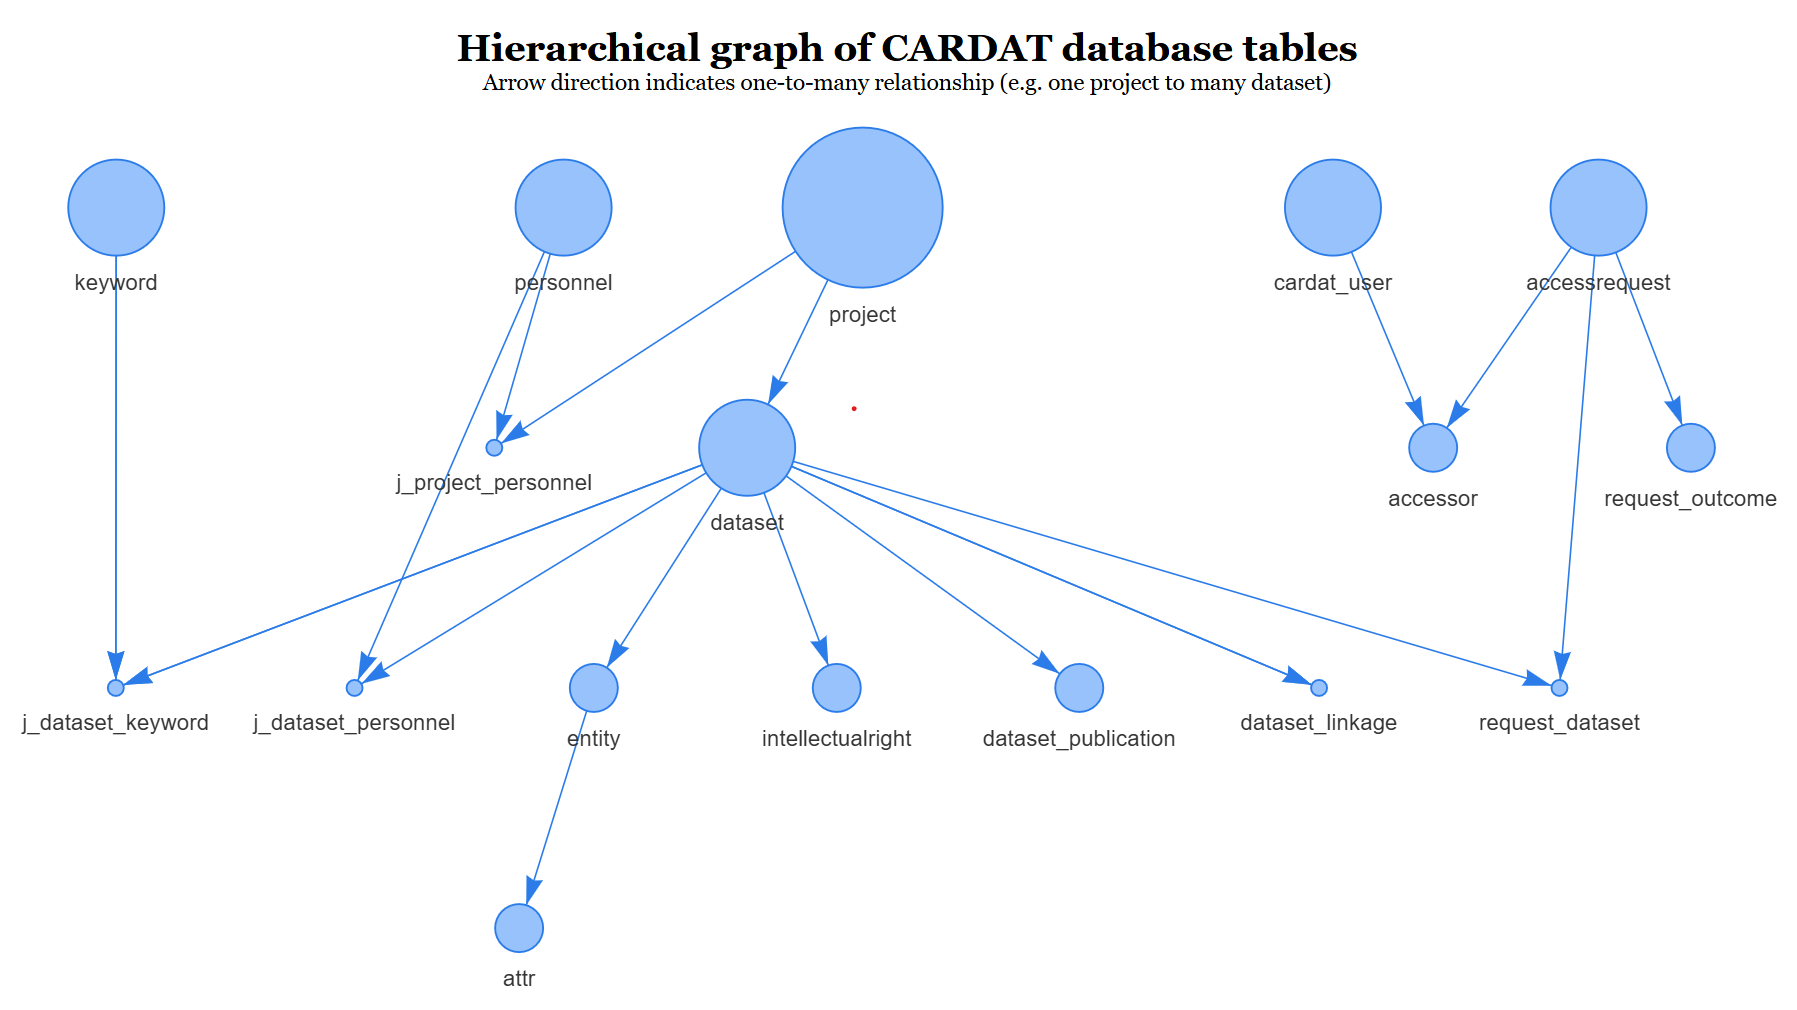
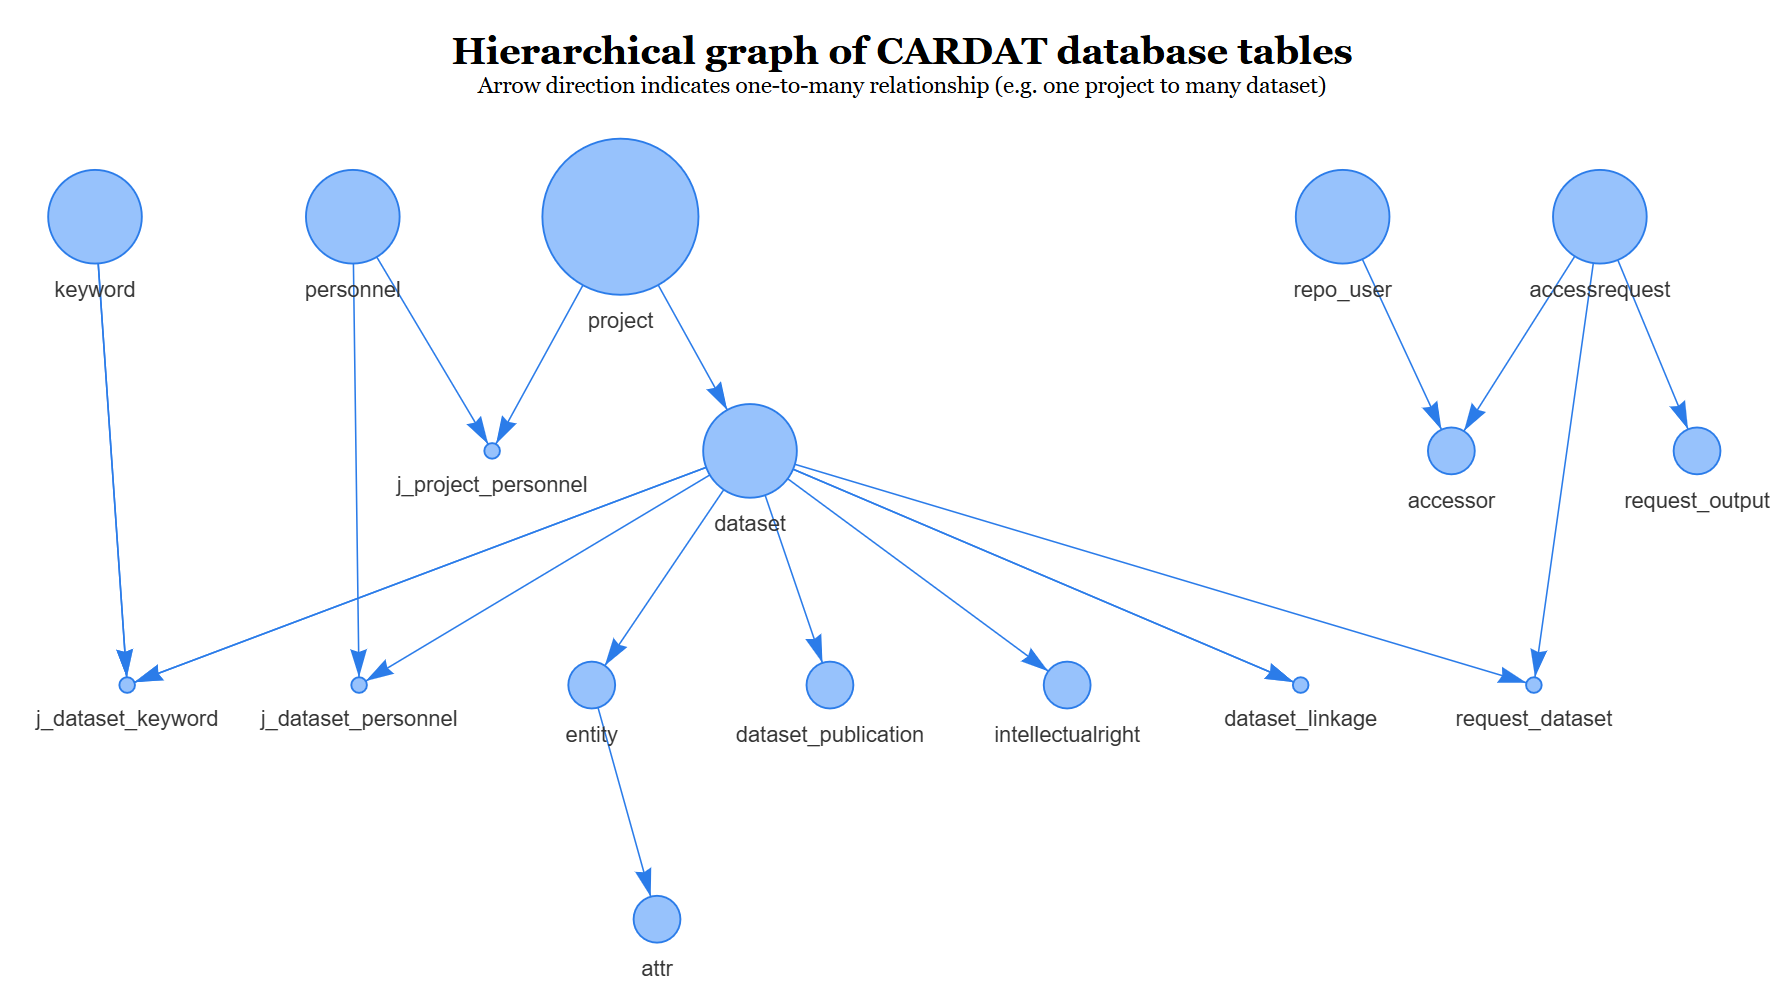
Heavily edit guide

diff --git a/views/index/guide.html b/views/index/guide.html
@@ -1,41 +1,72 @@
 {{extend 'layout.html'}}
 
   {{if auth.is_logged_in():}}
-  <h4>{{=T("Structure")}}</h4>,
-  {{=IMG(_src=URL("static/images", "CARDAT_tbl_relation.png"), _alt = "CARDAT table relationships")}}
-
-  <h4>{{=T("Guide to Usage")}}</h4>
-  <p>The data inventory is primarily divided into two sections - one for managing data assets and one for managing access and usage of data. It is suitable for managing a directory of data sources as well as for the inventory/management of a data repository.</p>
-  <p>The central structure of the inventory of data assets is inspired by the 
-  {{=A('Ecological Metadata Language', _href='https://eml.ecoinformatics.org/')}} and uses a project-dataset-entity tree structure. Datasets (<em>dataset</em>) are the key focus - each dataset record has an abstract and description of methods and study extent, and importantly has a record of licencing attached (<em>intellectualright</em>) and personnel (<em>personnel</em>) involved, particularly the data owner or creator (<em>j_dataset_personnel</em>). Methodology which has been published (e.g. described in a journal paper) can also be attached to a dataset (<em>dataset_publication</em>). Datasets can contain one or more entities (<em>entity</em>) which are typically files or code repositories. In turn, one or more datasets can be grouped into an overarching project (<em>project</em>), typically defined by the intended outcome and funding source.</p>
-  <p>Additional helper information for dataset can be added with keyword tags (<em>j_dataset_keyword</em>) and linkages between datasets (<em>dataset_linkage</em>), describing parent-child relationships between datasets as, for example, a subset or derivation.</p>
   
-
-  <p>Entities can be further described with attributes (<em>attr</em>), which detail the variables available within an entity.</p>
-  <p>Access requests for datasets are separatedly recorded. A request is defined by a specific purpose of dataset usage and expected outcome, such as a PM2.5 and mortality study, which requests access to a PM2.5 CTM surfaces dataset and a mortality dataset. Attached to the access request (<em>accessrequest</em>) are the people involved in the study and their roles (<em>accessor</em>), the expected outputs (<em>request_output</em>), and the datasets requested and approval status (<em>request_dataset</em>). A unique record of individuals is held in a user table (<em>repo_user</em>).</p>
+  <h4>{{=T("Quick Usage Guide")}}</h4>
+  <p>The inventory's main data asset items are datasets, which are grouped into overarching projects. Each dataset may hold one or more entities (often called resources in other metadata frameworks). Details of access requests for specific dataset(s) may also be recorded.</p>
   
-  <h4>{{=T("Step-by-step guide")}}</h4>
   <h5>{{=T("Adding a new dataset")}}</h5>
   <ol>
-	<li>Add personnel (these may be individuals or organisations who were involved in the creation of a project or dataset) to the personnel table (<em>Manage Data > Data Personnel</em>)
-	<ul>
-		<li>A name is required, but it is preferred to also add an ORCID (for individuals) or ROR (for organisations) for unique identification</li>
-		<li>An alternative name can be provided (for example, an organisation may have a common abbreviation, or a person a shortened, anglicised or nickname)</li>
-		<li>Also add email(s) and affiliation(s) if known</li>
-		<li>A website may be added (more relevant for organisations - typically a home page)</li>
-	</ul>
-	<li>If the overarching project does not yet exist, add a new project.</li>
-	<ul>
-		<li>Describe the general project context and aim in the Abstract</li>
-		<li>Describe the overall study extent</li>
-		<li>Add funding information if known and year of project establishment</li>
-	</ul>
-	<li>Add a new dataset under the appropriate project, giving a brief description of abstract, study extent and recording the contact details. Also identify the publication status.</li>
-    <li></li>
-  </ol>  
+	<li>Add personnel (if not already existing) (<em>Manage Data > Data Personnel</em>)</li>
+		<ul><li>These may be individuals or organisations who were involved in the creation of a project or dataset or are a key contact - they must exist before being linked to a dataset/project.</li></ul>
+	<li>If the overarching project does not yet exist, add a new project (<em>Manage Data > Projects</em>)</li>
+		<ul><li>Details of overview, extent and funding</li></ul>
+	<li>Add a new dataset under the appropriate project (<em>Manage Data > Datasets</em>)</li>
+		<ul><li>Details of overview, extent, main contact and repository publication status</li></ul>
+	<li>Attach personnel to the dataset/project as needed (navigate via Projects, Datasets or Data Personnel).</li>
+    <li>Add further dataset information if appropriate</li>
+		<ul>
+			<li>IMPORTANT: Add licensing information (defining conditions of use/reuse and sharing)</li>
+			<li>Dataset publication describing methodology</li>
+			<li>Entities (key files)</li>
+			<li>Keyword tags</li>
+		</ul>
+  </ol>
+  
+  <h5>{{=T("Adding a new dataset access request")}}</h5>
+  <ol>
+	<li>Add the request (<em>Manage Access > Access Requests</em>)</li>
+		<ul><li>Brief description/abstract of purpose of request</li></ul>
+	<li>Link repository user(s) to the request as an accessor (<em>Manage Access > Accessors</em>)</li>
+		<ul><li>If accessor does not yet exist as User, add (<em>Manage Access > Users</em>)</li></ul>
+	<li>Add expected output, or detail/link of output if known (<em>Manage Access > Request Outputs</em>)</li>
+	<li>Link to requested dataset(s) (<em>Manage Access > Dataset Access Approvals</em>)</li>
+		<ul><li>Record approval status and date here</li><ul>
+  </ol>
+  
+  <hr>
+  
+  <h4>{{=T("Database Table Relationship Structure")}}</h4>,
+  {{=IMG(_src=URL("static/images", "CARDAT_tbl_relation.png"), _alt = "CARDAT table relationships")}}
+
+  <p>The data inventory is primarily divided into two sections - one for managing data assets and one for managing access and usage of data. It is suitable for managing a directory of data sources as well as for the inventory/management of a data repository.</p>
+  <h5>Data assets</h5>
+  <p>The central structure of the inventory of data assets is inspired by the 
+  {{=A('Ecological Metadata Language', _href='https://eml.ecoinformatics.org/')}} and uses a project-dataset-entity tree structure. Datasets (<em>dataset</em>) are the key focus - each dataset record has an abstract and description of methods and study extent. Attached to each dataset are:</p>
+  <ul>
+	<li>a record of licencing attached (<em>intellectualright</em>) <strong>IMPORTANT!</strong></li>
+	<li>personnel involved and their role involved, particularly the data owner or creator (<em>j_dataset_personnel</em>)</li>
+		<ul><li>Note all personnel have a single record in <em>personnel</em> where their affiliation and contact details can be recorded</li></ul>
+	<li>documented methodology (if applicable) which has been published (e.g. described in a journal paper) (<em>dataset_publication</em>)</li>
+	<li>one or more entities (<em>entity</em>) which are typically files or code repositories</li>
+		<ul><li>Entities can be further described with attributes (<em>attr</em>), which detail the variables available within an entity.</li></ul>
+  </ul>
+  <p>Additional helper information for datasets can be added with keyword tags (<em>j_dataset_keyword</em>) and linkages between datasets (<em>dataset_linkage</em>), describing parent-child relationships between datasets as, for example, a subset or derivation.</p>  
+  <p>In turn, one or more datasets can be grouped into an overarching project (<em>project</em>), typically defined by the intended outcome and funding source. These may also have personnel attached (e.g. Owner or other personnel) (<em>j_project_personnel</em>).</p>
+  <p>Access requests for datasets are separatedly recorded. A request is defined by a specific purpose of dataset usage and expected outcome, such as a PM2.5 and mortality study, which requests access to a PM2.5 CTM surfaces dataset and a mortality dataset. Attached to the access request (<em>accessrequest</em>) are:
+  <ul>
+	<li>the people involved in the study and their roles (<em>accessor</em>)</li>
+	  <ul><li>A unique record of individual repository users and their details is held in a user table (<em>repo_user</em>)</li></ul>
+	<li>the expected outputs (<em>request_output</em>)</li>
+	<li>the datasets requested and approval status (<em>request_dataset</em>)</li>
+  </ul>
+  <br/>
+  <br/>
+  <p>Please see the {{=A("data dictionary", _href=URL(c="index", f="data_dictionary"))}} for detailed explanation of fields for each table. (<em>Note this data dictionary exists as an entirely separate table in the database.</em>)</p>
   
   {{elif 'content' in globals():}}
 	{{=content}}
+	
   {{else:}}
   <li>{{=T('To use the data inventory please register in top right corner.')}}</li>
 	{{=BEAUTIFY(response._vars)}}

diff --git a/views/index/home.html b/views/index/home.html
@@ -2,9 +2,8 @@
 {{left_sidebar_enabled,right_sidebar_enabled=False,('message' in globals())}}
 {{extend 'layout.html'}}
   
-
-  <h4>{{=T('Quick Start')}}</h4>
   {{if auth.is_logged_in():}}
+	<h4>{{=T('Welcome')}}</h4>
 	<ul>
 	<li>{{=XML(T('The main tool for managing research projects (umbrella grouping of datasets) is at %s',
              A('%(application)s/manage/browse/project/'%request,
@@ -22,24 +21,25 @@
 	</ul>
 	<br/>
 	
-	<h5>{{=T('I would like to...')}}</h5>
+	<h4>{{=T('Quickstart')}}</h4>
+	<p>I would like to...</p>
   <ul>
-	<li><strong>...manage data</strong>
+	<li>...manage data
 		<ul>
-			<li><strong>Browse personnel records for projects or datasets</strong>: Go to <em>Manage Data > Data Personnel</em></li>
-			<li><strong>Browse publications relating to datasets</strong>: Go to <em>Manage Data > Publications</em></li>
-			<li><strong>Browse keywords for tagging datasets</strong>: Go to <em>Manage Data > Keywords</em></li>
-			<li><strong>Browse linkages between datasets</strong>: Go to <em>Manage Data > Dataset Linkages</em></li>
+			<li>Browse <strong>personnel records for projects or datasets</strong>: Go to <em>Manage Data > Data Personnel</em></li>
+			<li>Browse <strong>publications relating to datasets</strong>: Go to <em>Manage Data > Publications</em></li>
+			<li>Browse <strong>keywords for tagging datasets</strong>: Go to <em>Manage Data > Keywords</em></li>
+			<li>Browse <strong>linkages between datasets</strong>: Go to <em>Manage Data > Dataset Linkages</em></li>
 		</ul>
 	</li>
 	<br/>
-	<li><strong>...manage access</strong>
+	<li>...manage access
 		<ul>
-			<li><strong>Browse all repository users</strong>: Go to <em>Manage Access > Users</em></li>
-			<li><strong>Browse access requests</strong>: Go to <em>Manage Access > Access Requests</em></li>
-			<li><strong>Browse combined access requests and attached users/roles</strong>: Go to <em>Manage Access > Accessors by Request</em></li>
-			<li><strong>Browse all request outputs</strong>: Go to <em>Manage Access > Request Outputs</em></li>
-			<li><strong>Browse requested datasets by access request and manage approvals</strong>: Go to <em>Manage Access > Dataset Access Approvals</em></li>
+			<li>Browse <strong>all repository users</strong>: Go to <em>Manage Access > Users</em></li>
+			<li>Browse <strong>access requests</strong>: Go to <em>Manage Access > Access Requests</em></li>
+			<li>Browse <strong>combined access requests and attached users/roles</strong>: Go to <em>Manage Access > Accessors by Request</em></li>
+			<li>Browse <strong>all request outputs</strong>: Go to <em>Manage Access > Request Outputs</em></li>
+			<li>Browse <strong>requested datasets by access request and manage approvals</strong>: Go to <em>Manage Access > Dataset Access Approvals</em></li>
 		</ul>
 	</li>
 	<br/>
